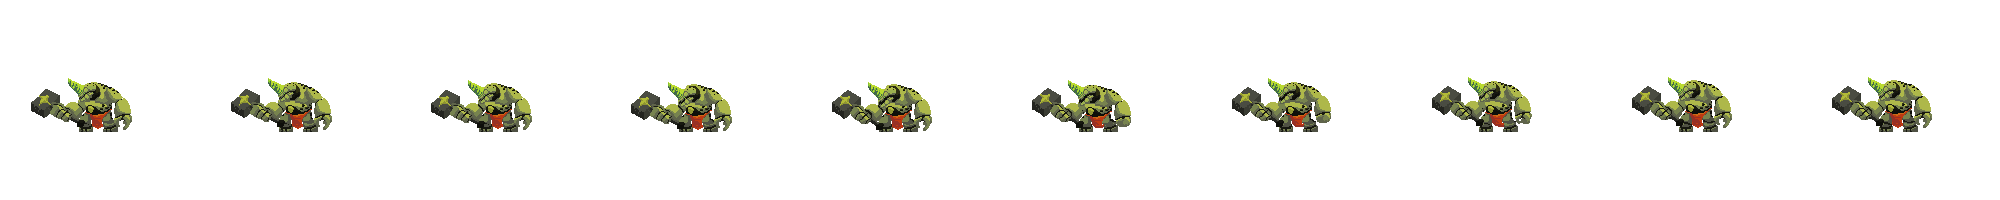
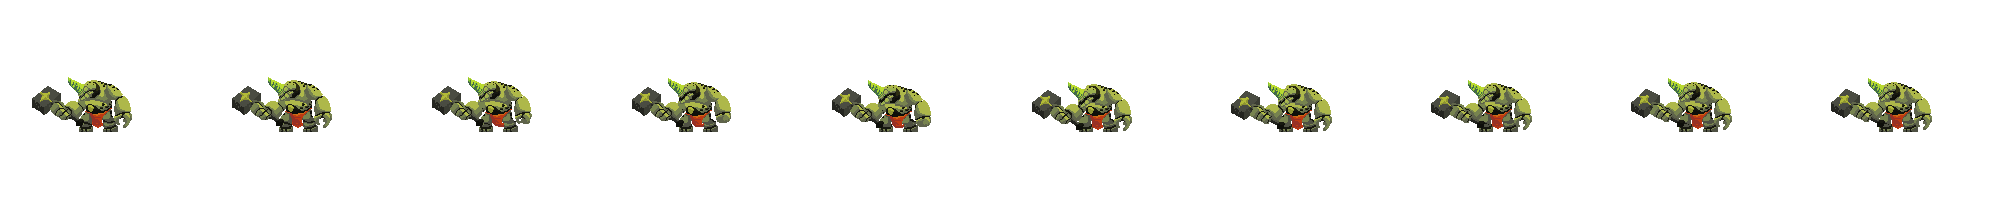
Gameplay balancing

diff --git a/src/components/Canvas/lib/spawner.js b/src/components/Canvas/lib/spawner.js
@@ -37,7 +37,6 @@ function spawnEnemies() {
         case 1:
             for (let i = 0; i < 1; i++) {
                 spawnSkeleton();
-                // spawnMushroom()
             }
             break;
         case 2:
@@ -382,12 +381,30 @@ function spawnDemon() {
     });
 }
 
+// x, y, imageSrc, scale = 2.6, framesMax = 10, offset = { x: 220, y: 195 }
 function spawnTroll() {
     const minX = 1366;
     const maxX = 2000;
     const randomX = Math.random() * (maxX - minX) + minX;
-
-    new Troll(randomX, canvas.height - 168 - 260, "src/components/canvas/img/Troll/Idle.png");
+    new Troll(randomX, canvas.height - 168 - 260, "src/components/canvas/img/Troll/Idle.png", 2.6, 10, { x: 220, y: 195 },
+    {
+        idle: {
+            imageSrc: "src/components/canvas/img/Troll/Idle.png",
+            framesMax: 10
+        },
+        run: {
+            imageSrc: "src/components/canvas/img/Troll/Run.png",
+            framesMax: 8
+        },
+        attack: {
+            imageSrc: "src/components/canvas/img/Troll/Attack.png",
+            framesMax: 5
+        },
+        hit: {
+            imageSrc: "src/components/canvas/img/Troll/Hit.png",
+            framesMax: 3
+        }
+    });
 }
 
 function spawnMushroom() {

diff --git a/src/components/Canvas/lib/enemies.js b/src/components/Canvas/lib/enemies.js
@@ -162,8 +162,8 @@ class Demon extends Enemy {
 }
 
 class Troll extends Enemy {
-    constructor(x, y, imageSrc, scale = 2.6, framesMax = 10, offset = { x: 220, y: 195 }) {
-        super(x, y, imageSrc, scale, framesMax, offset)
+    constructor(x, y, imageSrc, scale, framesMax, offset, sprites) {
+        super(x, y, imageSrc, scale, framesMax, offset, sprites)
         this.name = "troll"
         this.position = {x, y}
         this.width = 70
@@ -191,22 +191,6 @@ class Troll extends Enemy {
             height: 100,
         }
     }
-
-    // draw(context) {
-    //     this.atkBox.position.x = this.position.x + this.width - 200 - 3
-    //     this.atkBox.position.y = this.position.y
-    //     context.fillStyle = "maroon"
-    //     context.fillRect(this.position.x, this.position.y, this.width, this.height);
-
-    // //     if (this.isAttacking) {
-    // //         context.fillRect(
-    // //             this.atkBox.position.x,
-    // //             this.atkBox.position.y,
-    // //             this.atkBox.width,
-    // //             this.atkBox.height
-    // //         );
-    // //     }
-    // }
 }
 
 class Mushroom extends Enemy {

diff --git a/src/components/Canvas/lib/guardians.js b/src/components/Canvas/lib/guardians.js
@@ -758,7 +758,6 @@ class Lightning extends Projectile {
         this.movSpd = 15;
         this.width = 60;
         this.height = 595;
-        this.stunDuration = 3000;
 
         this.framesCurrent = 20;
         this.framesElapsed = 20;
@@ -788,7 +787,7 @@ class Explosion extends Projectile {
         this.movSpd = 0;
         this.width = 200;
         this.height = 150;
-        this.stunDuration = 4000;
+        this.stunDuration = 2000;
     }
 
     draw(context) {

diff --git a/src/components/Canvas/lib/collision.js b/src/components/Canvas/lib/collision.js
@@ -20,9 +20,6 @@ function checkAtkBoxCollisions(spriteGroup1, spriteGroup2) {
                     if (spriteA instanceof Duncan) {
                         spriteB.getKnockedBack(spriteA.knockBackStrength)
                     }
-                    else if (spriteA instanceof Robbie) {
-                        spriteB.getStunned(spriteA.stunDuration)
-                    }
 
                     // ENEMIES
                     else if (spriteA instanceof Skeleton){
